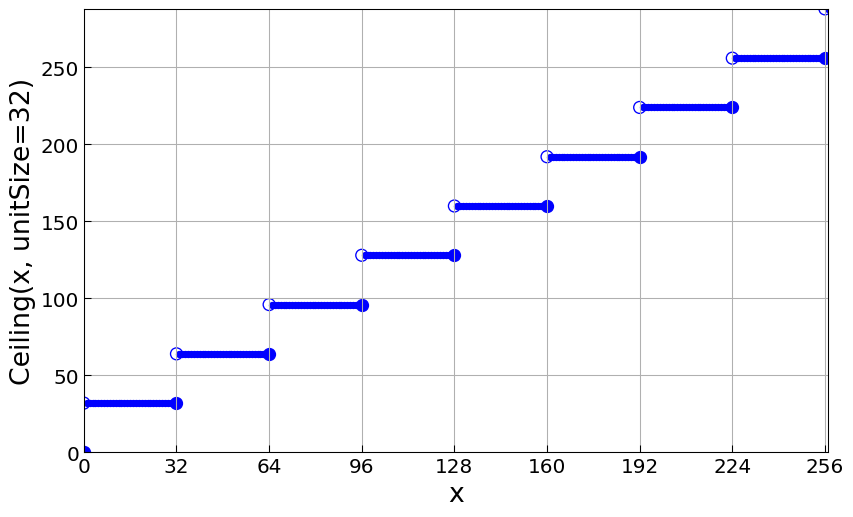
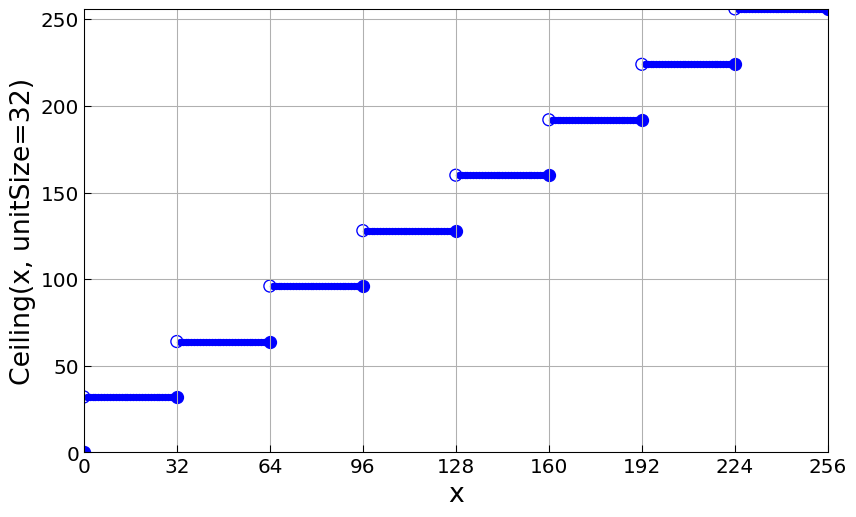
Update

diff --git a/plot__occupancy.py b/plot__occupancy.py
@@ -2,10 +2,12 @@ import numpy as np
 import matplotlib.pyplot as plt
 from matplotlib.pyplot import figure
 
+def Ceiling(x, unitSize):
+   return x-(x%unitSize) + np.where( (x%unitSize)>0, 1, 0 )*unitSize
 
-def occupancy( unitSize, x ):
-   y = x-(x%unitSize) + np.where( (x%unitSize)>0, 1, 0 )*unitSize
-   return x/y
+
+def Occupancy( x, unitSize ):
+   return x/Ceiling(x, unitSize)
 
 fig, ax = plt.subplots(2, 2, figsize=(20, 10))
 plt.subplots_adjust(wspace=0.15, hspace=0.02)
@@ -14,8 +16,8 @@ xmin = 1
 xmax = 1024
 
 x = np.linspace(xmin, xmax, num=int(xmax-xmin)+1)
-ax[1][0].plot(x, occupancy(32, x), 'o', markersize=0.5, color='black')
-ax[1][1].plot(x, occupancy(72, x), 'o', markersize=0.5, color='black')
+ax[1][0].plot(x, Occupancy(x, 32), 'o', markersize=0.5, color='black')
+ax[1][1].plot(x, Occupancy(x, 72), 'o', markersize=0.5, color='black')
 
 
 File = "throughput_vs_block_grid_size.dat"

diff --git a/plot__ceiling.py b/plot__ceiling.py
@@ -9,7 +9,7 @@ def Ceiling(x, unitSize):
 numPoints = 129*2
 unitSize = 32  # Example unit size
 
-x_values = np.linspace(0, numPoints-1, numPoints, endpoint=True, dtype=np.int16)
+x_values = np.linspace(0, numPoints-2, numPoints-1, endpoint=True, dtype=np.int16)
 
 # Calculate y values using the function
 y_values = Ceiling(x_values, unitSize)
